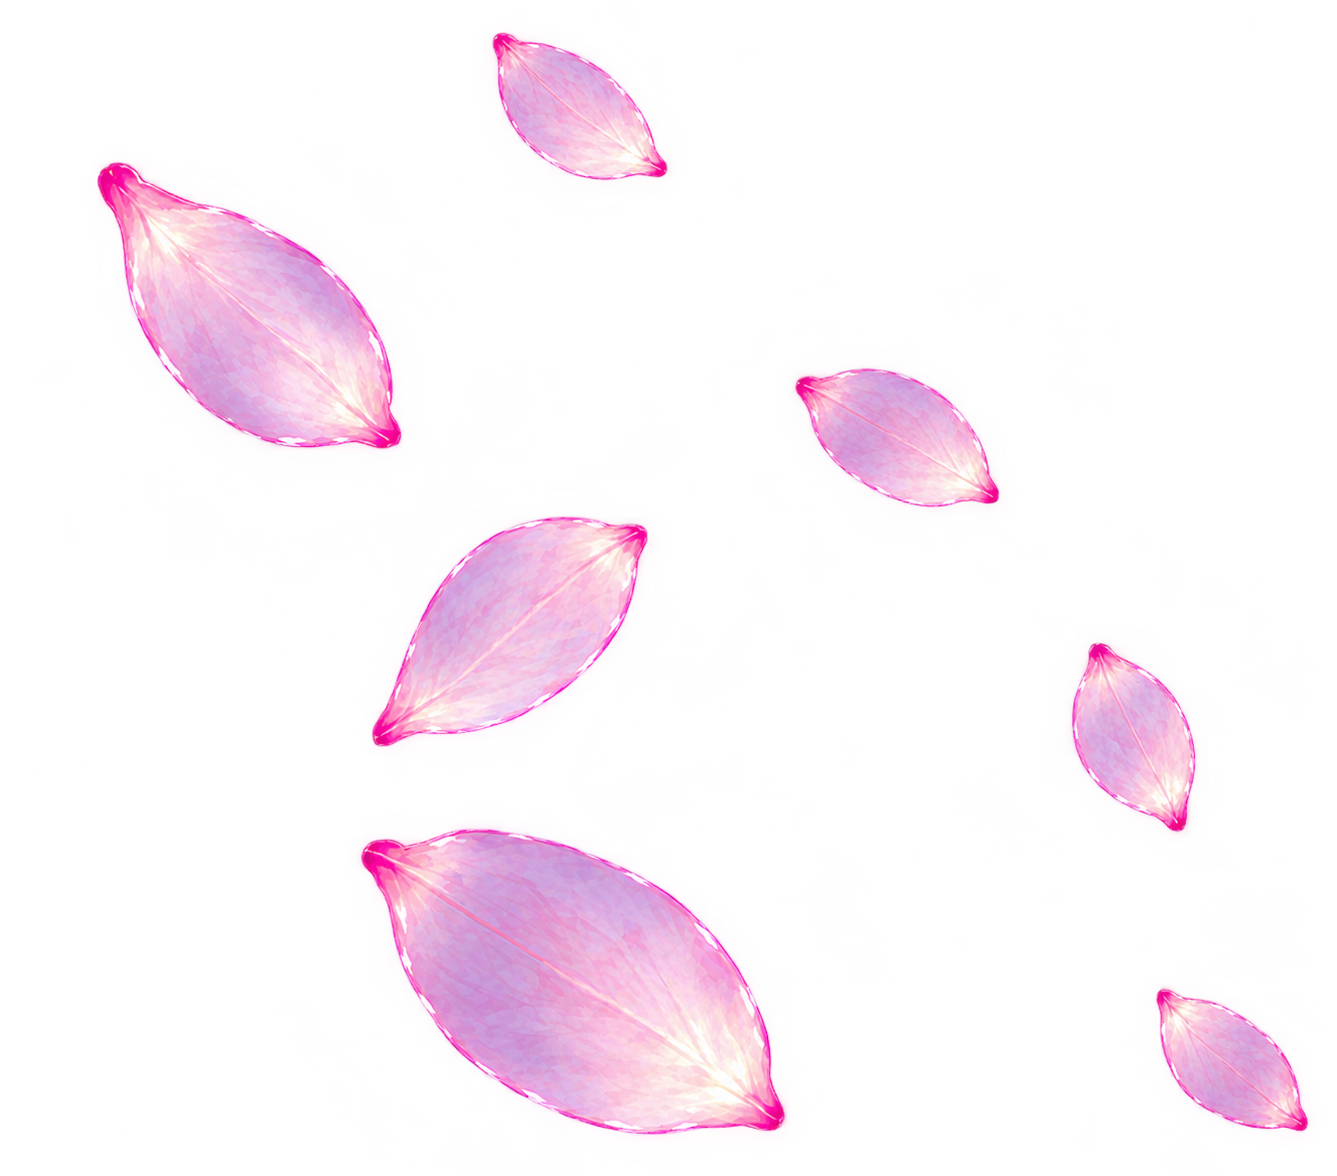
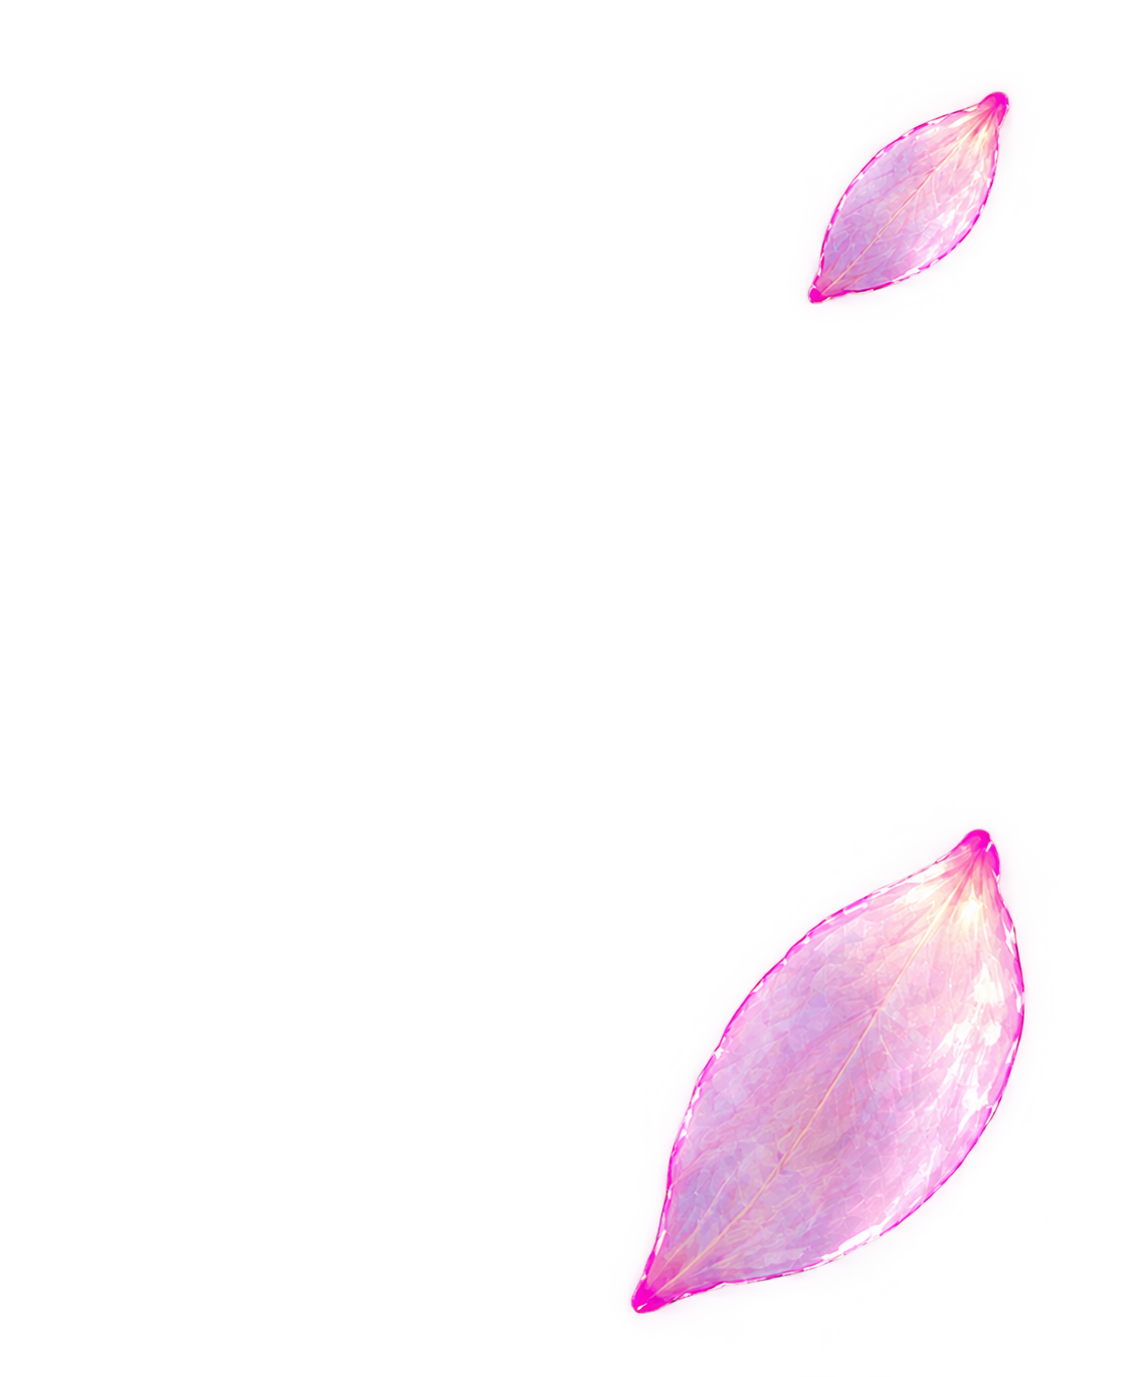
成分カード・セラムカード・お試しに桜を配置

diff --git a/css/style.css b/css/style.css
@@ -256,6 +256,73 @@ main {
     gap: 8px;
 }
 
+/* スプレーのセクション全体を「基準点」にする。
+   この中で、飾りの位置を自由に決められるようになる */
+.product-spray {
+    position: relative;
+}
+
+/* スプレーのカードの左上の角に、大きな花びらを重ねる。
+   ::before は、HTMLに書かずに作れる飾り用の箱。装飾なので alt も不要 */
+.product-spray::before {
+    /* ::before は content が必須(中身は空でOK) */
+    content: "";
+    /* 基準点(.product-spray)の中で、位置を自由に決める */
+    position: absolute;
+    /* 上から-87px = 上へ87pxはみ出す(マイナスは、外へ出る) */
+    top: -107px;
+    /* 左から-67px = 左へ67pxはみ出す */
+    left: -67px;
+    /* 飾りの箱の大きさ */
+    width: 200px;
+    height: 210px;
+    /* 花びらの画像。contain＝切らずに全体を収める */
+    background-image: url("../images/deco-petal-big.png");
+    background-size: contain;
+    background-repeat: no-repeat;
+    /* 飾りの下にあるリンクやボタンを、クリックできるようにする */
+    pointer-events: none;
+    /* カードより手前に出す(数字が大きい方が上) */
+    z-index: 3;
+}
+
+/* セラムカードの右端に花びらを飾る */
+
+/* まず親に「基準点」をつける（スプレーカードと同じ手順） */
+.product-serum {
+    position: relative; /* 中に置く飾りの基準点にする */
+}
+
+/* 花びら本体 */
+.product-serum::after {
+    content: "";                /* 疑似要素に必須。空でOK */
+    position: absolute;         /* 親(.product-serum)を基準に置く */
+    top: 520px;                  /* 親の上端から60px下 */
+    right: -27px;               /* マイナス＝親の右端より外側へはみ出す */
+    width: 250px;               /* 飾りの箱の幅 */
+    height: 300px;              /* 飾りの箱の高さ */
+    background-image: url("../images/deco-petals-4.png"); /* 4枚の花びら画像 */
+    background-size: contain;   /* 画像を切らずに箱へ収める */
+    background-repeat: no-repeat; /* 繰り返さない */
+    pointer-events: none;       /* 下の要素のクリックを邪魔しない */
+    z-index: 3;                 /* 他の要素より手前に表示する */
+}
+
+/* 成分カードの左下に、泡と花びらを飾る（左の枠をまたぐ） */
+.ingredients::after {
+    content: "";                /* 疑似要素に必須。空でOK */
+    position: absolute;         /* 親(.ingredients)を基準に置く */
+    top: 380px;                 /* 親の上端から380px下 */
+    left: -30px;                /* マイナス＝親の左端より外側へはみ出す */
+    width: 180px;               /* 飾りの箱の幅 */
+    height: 217px;              /* 飾りの箱の高さ */
+    background-image: url("../images/deco-bubble-petals.png"); /* 泡+花びら2枚の画像 */
+    background-size: contain;   /* 画像を切らずに箱へ収める */
+    background-repeat: no-repeat; /* 繰り返さない */
+    pointer-events: none;       /* 下の要素のクリックを邪魔しない */
+    z-index: 3;                 /* 他の要素より手前に表示する */
+}
+
 /* カード本体（商品の文章と瓶が入る箱） */
 .product-inner {
     /* 子の img を置くときの「基準点」にする（下の解説を読んでね） */
@@ -402,7 +469,24 @@ main {
     color: var(--color-purple);
     border-radius: 12px;
     padding: 40px 48px;
+    position: relative; /* 飾りの桜を置くときの「基準点」にする */
 }
+
+/* 成分カードの右上に、桜の花びらを縦に並べて飾る */
+.ingredients::before {
+    content: "";                /* 疑似要素は content が無いと表示されない（空でも必須） */
+    position: absolute;         /* 親(.ingredients)を基準点にして自由な位置に置く */
+    top: 20px;                  /* 親の上端から20px下 */
+    right: -24px;                /* 親の右端から30px内側 */
+    width: 303px;               /* 飾りを入れる箱の幅 */
+    height: 250px;              /* 飾りを入れる箱の高さ */
+    background-image: url("../images/deco-petals-8.png"); /* 8枚の花びら画像 */
+    background-size: contain;   /* 画像を切らずに箱の中へ収める */
+    background-repeat: no-repeat; /* 画像を繰り返さない */
+    pointer-events: none;       /* 飾りの上でもクリックやタップを下の要素に通す */
+}
+
+/* ↓ ここから下に新しく書く */
 
 /* カードの見出し（h3） */
 .ingredients-title {
@@ -457,6 +541,7 @@ main {
 .ingredients-note {
     margin-top: 24px;
     font-size: 14px;
+    text-align: right; /* 文字を右揃えにする */
 }
 
 /* ----------------------------------------------------------
@@ -538,6 +623,27 @@ main {
 .trial {
     position: relative;
     color: var(--color-black);
+}
+
+/* 価格の後ろに、8枚の花びらを飾る */
+.trial::after {
+    content: "";                /* 疑似要素に必須。空でOK */
+    position: absolute;         /* .trial を基準に置く */
+    top: 580px;      /* 上端から447px下（価格の高さに合わせた） */
+    right: 782px;    /* 右端から566px内側 */
+    width: 200px;               /* 飾りの箱の幅 */
+    height: 300px;              /* 飾りの箱の高さ */
+    background-image: url("../images/deco-petals-8.png"); /* 8枚の花びら */
+    background-size: contain;   /* 画像を切らずに収める */
+    background-repeat: no-repeat; /* 繰り返さない */
+    pointer-events: none;       /* 下のボタンやリンクのクリックを邪魔しない */
+    transform: rotate(-60deg) scaleX(-1); /* 左に10度傾ける + 左右反転（1行にまとめる） */
+}
+
+/* 価格の文字を、桜より手前に出す */
+.trial-price {          /* ← ここは手順1で見つけたクラス名に書き換える */
+    position: relative; /* z-index を効かせるために、位置指定をつける（見た目は変わらない） */
+    z-index: 1;         /* 桜（z-index: 0）より大きい数字にして、手前に出す */
 }
 
 /* 丸い「7日間お試し」バッジ：画像の左上に重ねる */
